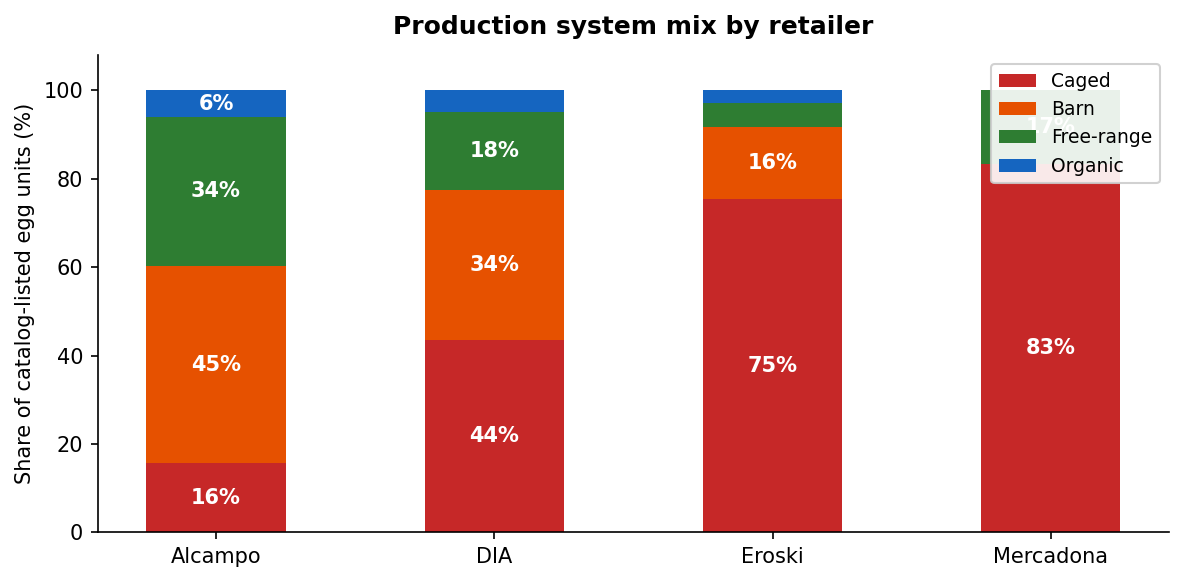
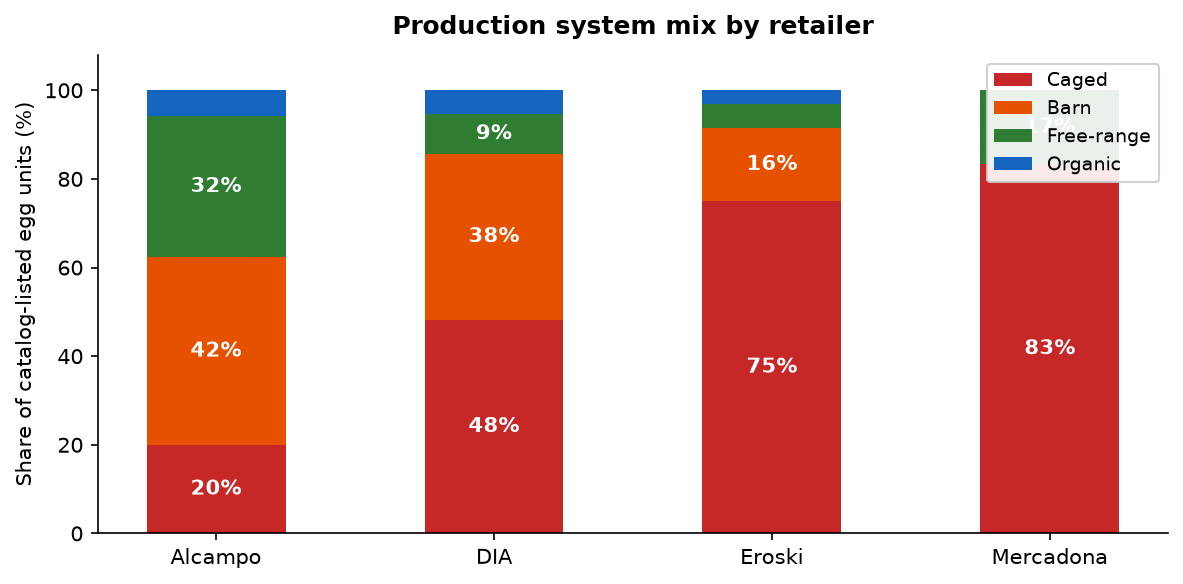
chore: quarterly egg report 2026-07-01

diff --git a/analysis/report.md b/analysis/report.md
@@ -1,14 +1,14 @@
 # Egg Production System vs Cage-Free Progress — Spanish Retailers
 
-*Scraped: 2026-05-10 15:52:45*
+*Scraped: 2026-07-01 09:29:03*
 
 ![Production system mix](production_mix.png)
 
 | Retailer  | Caged % | Barn % | Free-range % | Organic % | Listed cage-free % | Reported cage-free % | As of |
 | --------- | ------- | ------ | ------------ | --------- | ------------------ | -------------------- | ----- |
-| Alcampo   | 16%     | 45%    | 34%          | 6%        | 40%                | 63%                  | 2023  |
-| DIA       | 44%     | 34%    | 18%          | 5%        | 23%                | —                    | —     |
-| Eroski    | 75%     | 16%    | 5%           | 3%        | 8%                 | 35%                  | 2018  |
+| Alcampo   | 20%     | 42%    | 32%          | 6%        | 38%                | 63%                  | 2023  |
+| DIA       | 48%     | 38%    | 9%           | 5%        | 14%                | —                    | —     |
+| Eroski    | 75%     | 16%    | 6%           | 3%        | 8%                 | 35%                  | 2018  |
 | Mercadona | 83%     | 0%     | 17%          | 0%        | 17%                | 65%                  | 2024  |
 
 **Listed cage-free %** = share of catalog-listed egg units (pack quantity × SKUs) that is free-range or organic. Does not reflect actual sales weighting.
